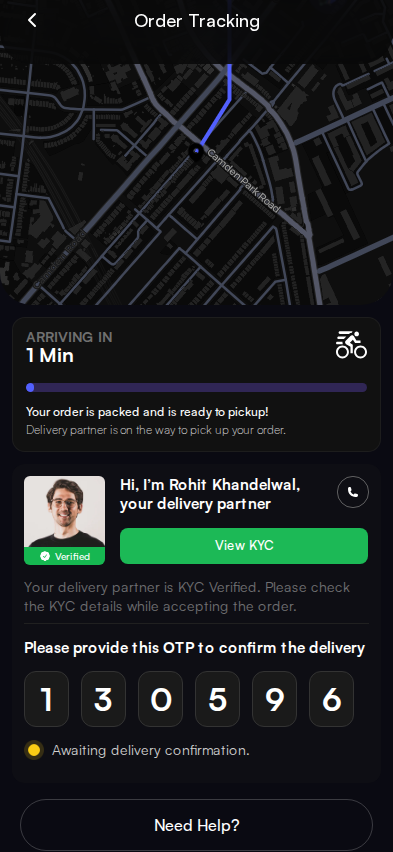
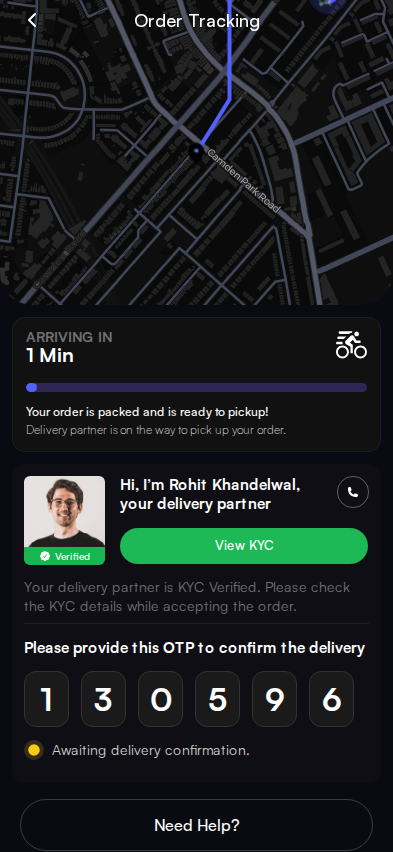
Update OrderTracking UI: Transparent header and pill-shaped KYC button

diff --git a/src/pages/OrderTracking.tsx b/src/pages/OrderTracking.tsx
@@ -101,11 +101,9 @@ const OrderTracking = () => {
       {/* Header Overlay - Matches AddAddress style */}
       <div className="absolute top-0 left-0 right-0 z-10 pointer-events-none">
         <div
-           className="rounded-b-[32px] overflow-hidden pointer-events-auto"
+           className="overflow-hidden pointer-events-auto"
            style={{
-                backgroundColor: "rgba(7, 7, 7, 0.81)",
-                backdropFilter: "blur(25px)",
-                WebkitBackdropFilter: "blur(25px)",
+                backgroundColor: "transparent",
                 paddingBottom: "24px"
            }}
         >
@@ -239,7 +237,7 @@ const OrderTracking = () => {
 
                     {/* CTA View KYC */}
                     <button
-                        className="mt-[14px] bg-[#1CB956] rounded-[8px] h-[36px] w-[248px] text-white text-[13px] font-medium font-sans flex items-center justify-center"
+                        className="mt-[14px] bg-[#1CB956] rounded-full h-[36px] w-[248px] text-white text-[13px] font-medium font-sans flex items-center justify-center"
                     >
                         View KYC
                     </button>
